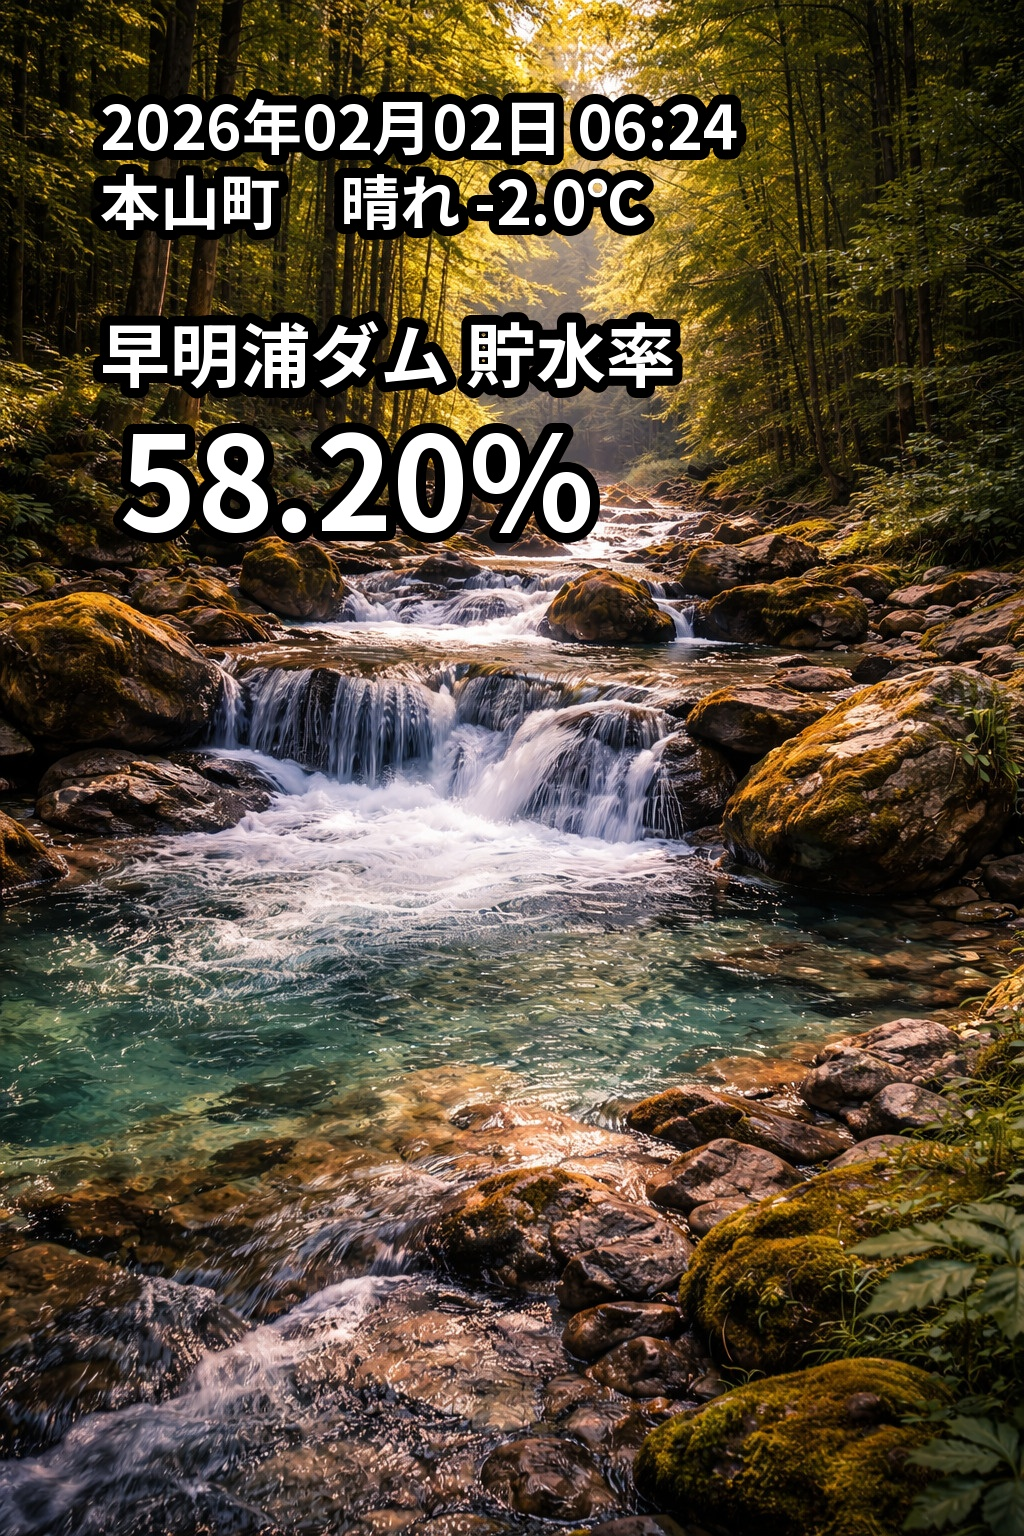
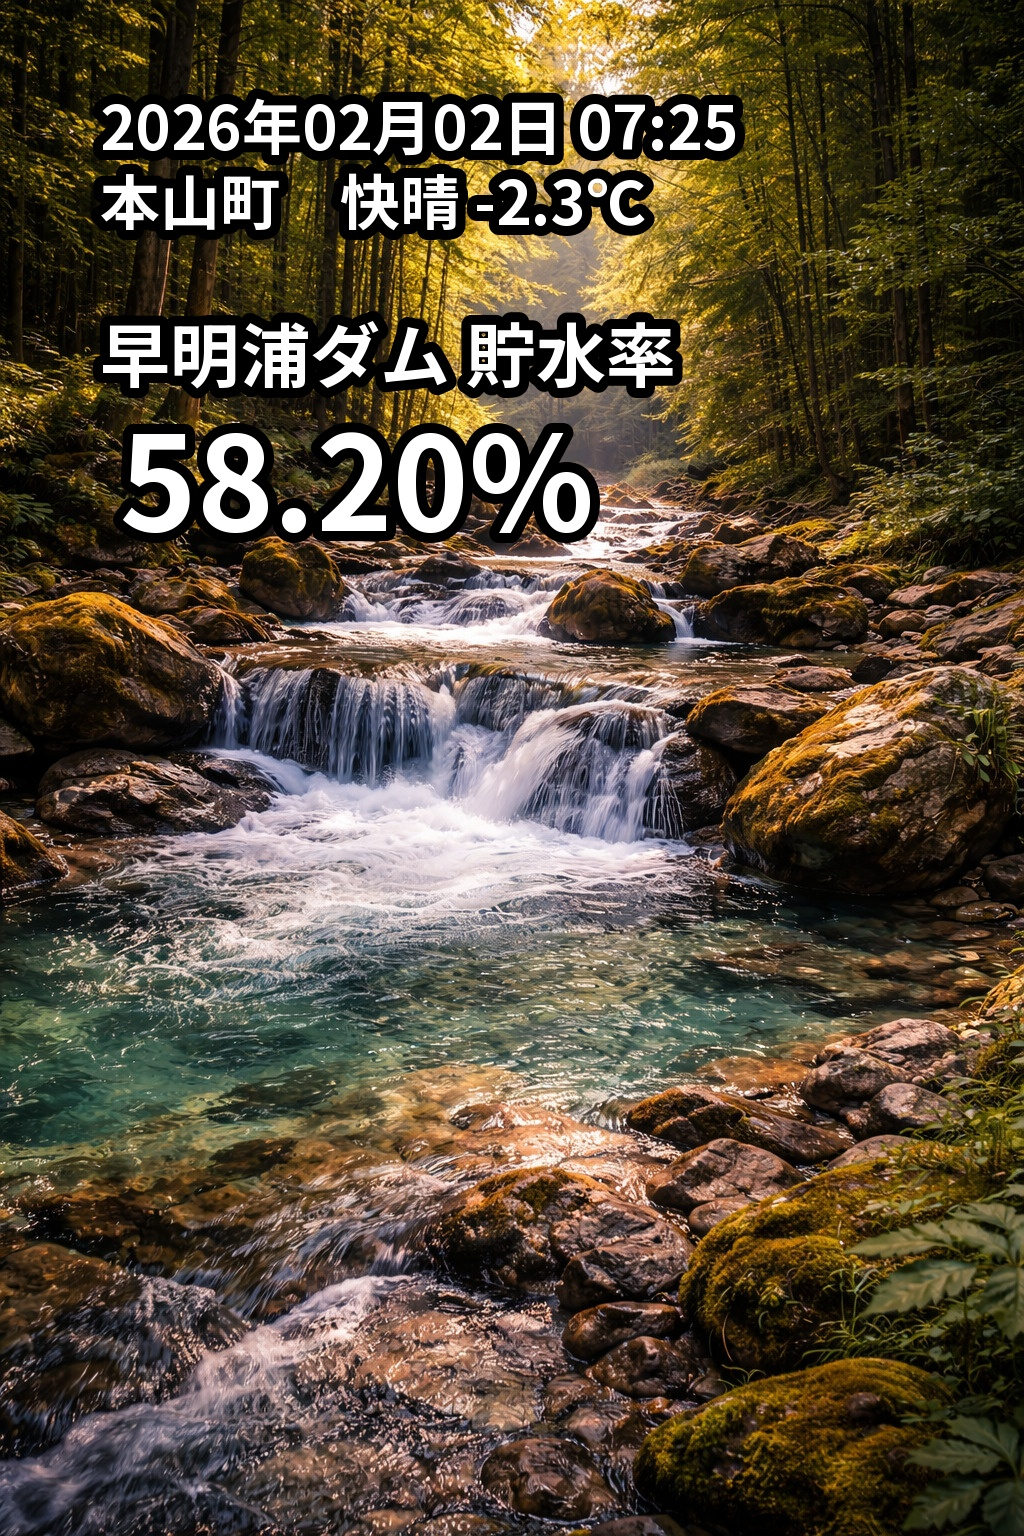
Update daily image

diff --git a/index.html b/index.html
@@ -10,6 +10,6 @@
   </style>
 </head>
 <body>
-  <img src="result.jpg?v=202602020624" alt="早明浦ダム 貯水率" />
+  <img src="result.jpg?v=202602020725" alt="早明浦ダム 貯水率" />
 </body>
 </html>
